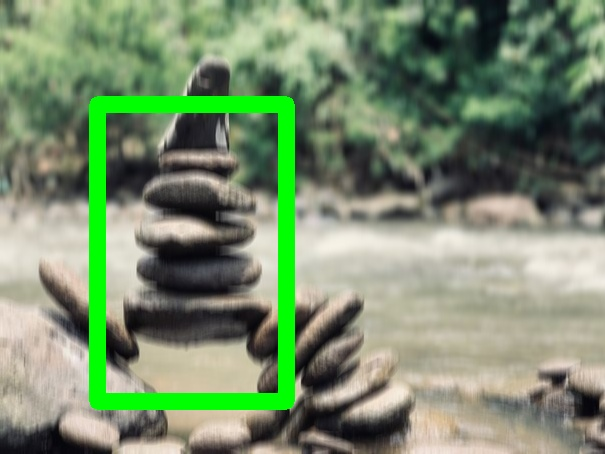
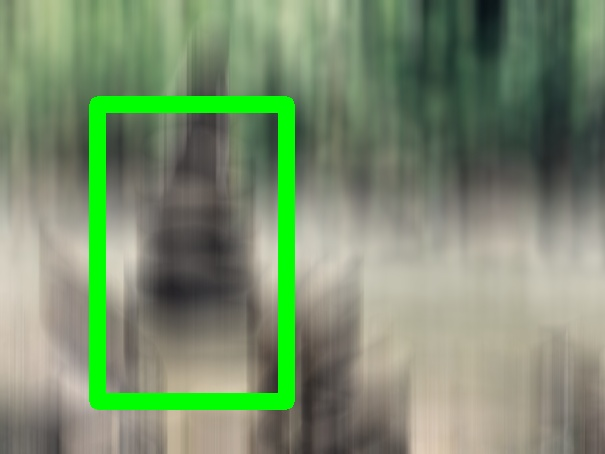
added motioblur sample with kernel_size=100

diff --git a/doc/discolight.md b/doc/discolight.md
@@ -410,6 +410,11 @@ The probability that this augmentation will be applied
 
 
 
+Sample image augmented with options:
+```
+kernel_size: 100
+```
+
 
 
 
